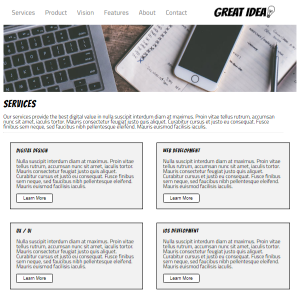
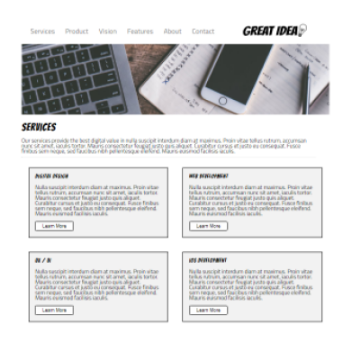
update responsive markup

diff --git a/assets/css/main.css b/assets/css/main.css
@@ -3785,33 +3785,129 @@ input, select, textarea {
 		}
 
 
-		.work-boxes{
-			display: flex;
-			justify-content: center;
-		}
+.work-boxes {
+	display: flex;
+	justify-content: center;
+}
 		
-		.work-left, .work-right{
-			display: flex;
-			flex-direction: column;
-			justify-content: space-between;
-		  
+.work-left, .work-right {
+	display: flex;
+	flex-direction: column;
+	justify-content: space-between;
+		  	
+}
 		
-		}
+.work-left h2, .work-right h2 {
+	padding-top: 10px;
 		
-		.work-left h2, .work-right h2 {
-			padding-top: 10px;
+	}
 		
-		}
-		
-		#work-box1, #work-box2, #work-box3, #work-box4 {
-			margin: 20px;
-			padding: 5px;
-			width: 380px;
-			border-bottom: 2px dotted black;
-			box-sizing: border-box;
-		}		
+#work-box1, #work-box2, #work-box3, #work-box4 {
+	margin: 20px;
+	padding: 5%;
+	padding-bottom: 5%;
+	width: 380px;
+	border-bottom: 2px dotted black;
+	box-sizing: border-box;
+	}		
+
+#work-box3 {
+		padding-top: 0%;
+}
+
+.work-right #work-box3 h2 {
+	padding-top: 0px;
+}
+	
 
 .UI-project, .UI-Sprint, .UI-Flex, .Collab {
 	width: 300px;
     height: auto;
+}
+
+#main {
+	padding: 5%;
+	padding-bottom: 10%;
+}
+
+.fa-home {
+	color: white;
+}
+
+@media (max-width: 800px) {
+
+	#main {
+		height: auto;
+	}
+	
+    .work-boxes{
+        width: 90%;
+        margin: 0 auto;
+        padding-left: 0px;
+    } */
+
+	#work-box1, #work-box2, 
+	#work-box3, #work-box4 {
+		margin: 10px;
+		padding: 1%;
+		width: 95%;
+		height: auto;
+		border: 1px solid black;
+	
+	}
+	
+	.work-boxes {
+		display: flex;
+		flex-direction: column;
+		justify-content: center;
+		padding-left: 40px;
+		width:100%;
+	}
+
+
+   
+	/* footer {
+		padding: 20px 0;
+		width: 100%;
+  		height: auto;
+	}*/
+} 
+
+@media (max-width: 400px) {
+
+    #main {
+		padding: 0%;
+		padding-left: 0%;
+    }
+
+   #main .work-boxes {
+		padding: 0%;
+		padding-left: 0%;
+	}
+
+	#main {
+
+		padding-bottom: 5%;
+	} 
+
+    #main .work-boxes {
+        width: 85%;
+        height: auto;
+	}
+
+	#work-box1, #work-box2, #work-box3, #work-box4 {
+		margin: 5%;
+		width: 95%;
+		height: auto;
+		border-bottom: 2px dotted black;
+		box-sizing: border-box;
+	}
+
+	#work-box1 img, #work-box2  img, #work-box3  img, #work-box4  img {
+		/* display: flex;
+		justify-content: center;
+		align-items: center; */
+		width: 90%;
+		height: auto;
+	}
 }

diff --git a/index.html b/index.html
@@ -95,23 +95,23 @@
 								<ul class="statistics">
 									<li class="style1">
 										<span class="icon solid fa-code-branch"></span>
-										<strong>5,120</strong> Fork
+										<strong>5,120</strong> Forks
 									</li>
 									<li class="style2">
 										<span class="icon fa-folder-open"></span>
-										<strong>8,192</strong> Folder
+										<strong>8,192</strong> Folders
 									</li>
 									<li class="style3">
 										<span class="icon solid fa-signal"></span>
-										<strong>2,048</strong> Tempus
+										<strong>2,048</strong> Networks
 									</li>
 									<li class="style4">
 										<span class="icon solid fa-laptop"></span>
-										<strong>4,096</strong> Debug
+										<strong>4,096</strong> Debuggings
 									</li>
 									<li class="style5">
 										<span class="icon fa-gem"></span>
-										<strong>1,024</strong> Account
+										<strong>1,024</strong> Accounts
 									</li>
 								</ul>
 								<p class="content">Nam elementum nisl et mi a commodo porttitor. 

diff --git a/elements.html b/elements.html
@@ -60,11 +60,11 @@
 							  </div>
 					  
 							  <div id="work-box4">
-								<img class="Collab" src="img/about-meeting.png" alt="gallery">
+								<img class="Collab" src="images/responsive.png" alt="gallery">
 								
-								<h2>Collaboration</h2>
+								<h2>Responsive Design</h2>
 								
-								<button><a href="#">Peek At Code</a></button>
+								<button><a href="https://github.com/DJRobin00/responsive-web-design-I">Peek At Code</a></button>
 							  </div>
 							</div>
 						   </section>
